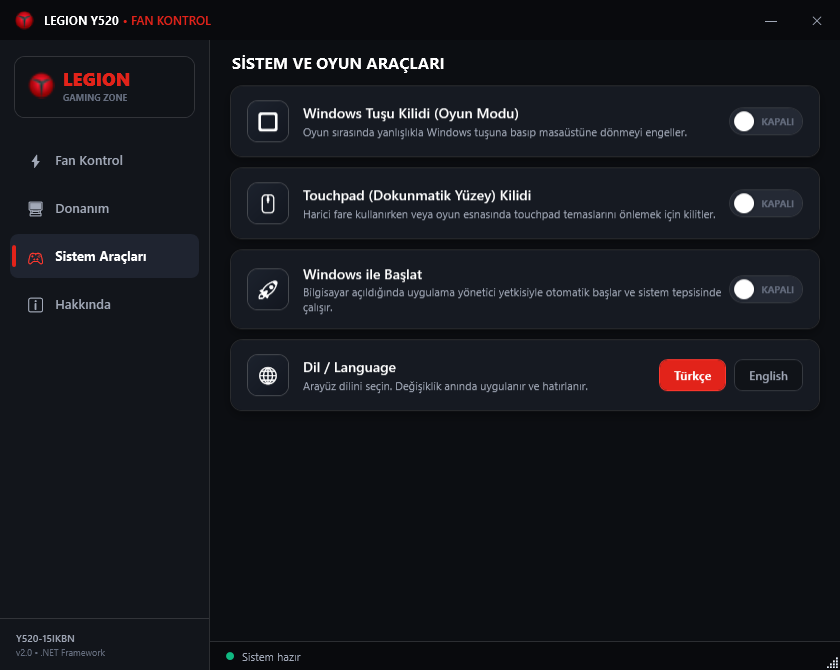
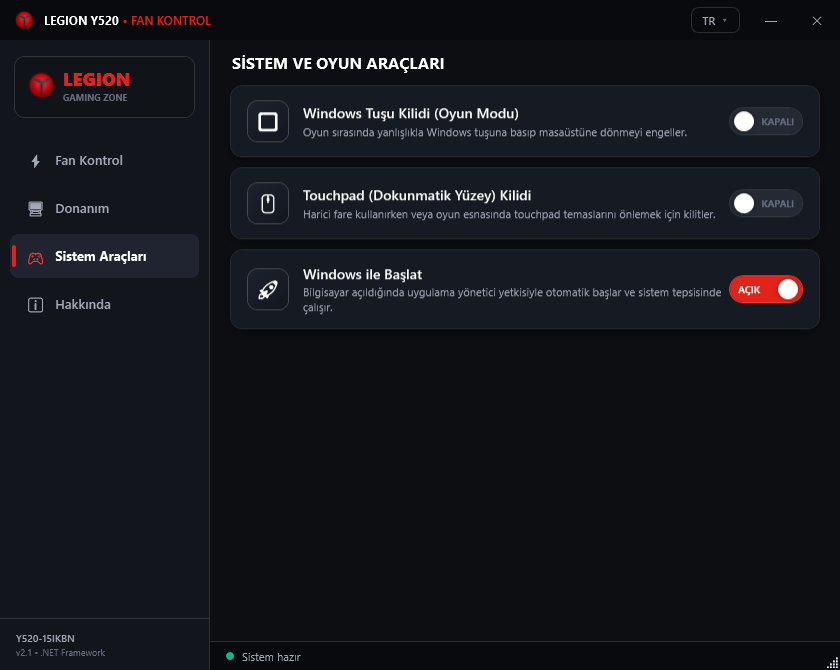
Legion Y520 Fan Kontrol v2.2
- Dil secimi baslik cubuguna tasindi (kucultme dugmesinin yaninda acilir menu)
- Sistem Araclari sayfasindaki eski dil karti kaldirildi
- Ekran goruntuleri yeni arayuzle guncellendi

diff --git a/Program.cs b/Program.cs
@@ -664,11 +664,120 @@ namespace LegionFanControl
 
             var right = new StackPanel { Orientation = Orientation.Horizontal };
             Grid.SetColumn(right, 1);
+            right.Children.Add(BuildLangSelector());
             right.Children.Add(MakeTitleButton("—", false));
             right.Children.Add(MakeTitleButton("✕", true));
             bar.Children.Add(right);
 
             return bar;
+        }
+
+        // Baslik cubugundaki kompakt dil secici (acilir menu)
+        private UIElement BuildLangSelector()
+        {
+            var popup = new Popup
+            {
+                StaysOpen = false,
+                AllowsTransparency = true,
+                Placement = PlacementMode.Bottom
+            };
+
+            var menuPanel = new StackPanel();
+            foreach (var code in Lang.Available)
+            {
+                string lcode = code;
+                bool active = Lang.Current == lcode;
+                var row = new StackPanel { Orientation = Orientation.Horizontal };
+                row.Children.Add(new TextBlock
+                {
+                    Text = active ? "✓" : "",
+                    Foreground = RedGlowBrush,
+                    FontSize = 11,
+                    FontWeight = FontWeights.Bold,
+                    Width = 16,
+                    VerticalAlignment = VerticalAlignment.Center
+                });
+                row.Children.Add(new TextBlock
+                {
+                    Text = lcode == "tr" ? "Türkçe" : "English",
+                    Foreground = active ? TextPrimary : TextSecondary,
+                    FontSize = 12,
+                    FontWeight = active ? FontWeights.SemiBold : FontWeights.Normal,
+                    VerticalAlignment = VerticalAlignment.Center
+                });
+                var item = new Border
+                {
+                    Padding = new Thickness(10, 7, 14, 7),
+                    Background = Brushes.Transparent,
+                    Cursor = Cursors.Hand,
+                    Child = row
+                };
+                item.MouseEnter += (s, e) => item.Background = SelBrush;
+                item.MouseLeave += (s, e) => item.Background = Brushes.Transparent;
+                item.MouseLeftButtonUp += (s, e) =>
+                {
+                    e.Handled = true;
+                    popup.IsOpen = false;
+                    ChangeLanguage(lcode);
+                };
+                menuPanel.Children.Add(item);
+            }
+
+            popup.Child = new Border
+            {
+                Background = SubCardBrush,
+                BorderBrush = PanelEdgeBrush,
+                BorderThickness = new Thickness(1),
+                CornerRadius = new CornerRadius(8),
+                Margin = new Thickness(0, 4, 0, 0),
+                Child = menuPanel
+            };
+
+            var head = new StackPanel { Orientation = Orientation.Horizontal };
+            head.Children.Add(new TextBlock
+            {
+                Text = Lang.Current.ToUpperInvariant(),
+                Foreground = TextSecondary,
+                FontSize = 11,
+                FontWeight = FontWeights.SemiBold,
+                VerticalAlignment = VerticalAlignment.Center
+            });
+            head.Children.Add(new TextBlock
+            {
+                Text = "▾",
+                Foreground = TextMutedBrush,
+                FontSize = 10,
+                Margin = new Thickness(5, 0, 0, 0),
+                VerticalAlignment = VerticalAlignment.Center
+            });
+
+            var btn = new Border
+            {
+                Padding = new Thickness(10, 5, 10, 5),
+                Margin = new Thickness(0, 0, 8, 0),
+                CornerRadius = new CornerRadius(7),
+                Background = Brushes.Transparent,
+                BorderBrush = PanelEdgeBrush,
+                BorderThickness = new Thickness(1),
+                Cursor = Cursors.Hand,
+                VerticalAlignment = VerticalAlignment.Center,
+                Child = head
+            };
+            System.Windows.Shell.WindowChrome.SetIsHitTestVisibleInChrome(btn, true);
+            popup.PlacementTarget = btn;
+            btn.MouseEnter += (s, e) => btn.Background = SelBrush;
+            btn.MouseLeave += (s, e) => btn.Background = Brushes.Transparent;
+            btn.MouseLeftButtonDown += (s, e) => { e.Handled = true; };
+            btn.MouseLeftButtonUp += (s, e) =>
+            {
+                e.Handled = true;
+                popup.IsOpen = !popup.IsOpen;
+            };
+
+            var host = new Grid();
+            host.Children.Add(btn);
+            host.Children.Add(popup);
+            return host;
         }
 
         private Border MakeTitleButton(string glyph, bool isClose)
@@ -1723,8 +1832,6 @@ namespace LegionFanControl
                 "🚀", _startupSwitch));
             _startupSwitch.SetCheckedQuietly(IsStartupEnabled());
 
-            sp.Children.Add(BuildLanguageCard());
-
             page.Children.Add(sp);
             return page;
         }
@@ -1801,99 +1908,6 @@ namespace LegionFanControl
         }
 
         // ---------------- Dil Secimi ----------------
-        private Border BuildLanguageCard()
-        {
-            var grid = new Grid();
-            grid.ColumnDefinitions.Add(new ColumnDefinition { Width = GridLength.Auto });
-            grid.ColumnDefinitions.Add(new ColumnDefinition { Width = new GridLength(1, GridUnitType.Star) });
-            grid.ColumnDefinitions.Add(new ColumnDefinition { Width = GridLength.Auto });
-
-            var iconBox = new Border
-            {
-                Width = 42, Height = 42,
-                CornerRadius = new CornerRadius(10),
-                Background = new LinearGradientBrush(
-                    Color.FromRgb(0x1C, 0x22, 0x2D),
-                    Color.FromRgb(0x12, 0x16, 0x1F),
-                    new Point(0, 0), new Point(1, 1)),
-                BorderBrush = new SolidColorBrush(Color.FromArgb(0x35, 0xFF, 0xFF, 0xFF)),
-                BorderThickness = new Thickness(1),
-                Margin = new Thickness(0, 0, 14, 0)
-            };
-            iconBox.Child = new TextBlock
-            {
-                Text = "🌐",
-                FontSize = 18,
-                Foreground = Brushes.White,
-                FontFamily = new FontFamily("Segoe UI Emoji, Segoe UI Symbol, Arial"),
-                HorizontalAlignment = HorizontalAlignment.Center,
-                VerticalAlignment = VerticalAlignment.Center
-            };
-            grid.Children.Add(iconBox);
-
-            var sp = new StackPanel { VerticalAlignment = VerticalAlignment.Center };
-            sp.Children.Add(new TextBlock
-            {
-                Text = Lang.T("lang.title"),
-                Foreground = TextPrimary,
-                FontSize = 14,
-                FontWeight = FontWeights.SemiBold
-            });
-            sp.Children.Add(new TextBlock
-            {
-                Text = Lang.T("lang.desc"),
-                Foreground = TextSecondary,
-                FontSize = 11,
-                TextWrapping = TextWrapping.Wrap,
-                Margin = new Thickness(0, 2, 0, 0)
-            });
-            Grid.SetColumn(sp, 1);
-            grid.Children.Add(sp);
-
-            var btnPanel = new StackPanel
-            {
-                Orientation = Orientation.Horizontal,
-                VerticalAlignment = VerticalAlignment.Center
-            };
-            btnPanel.Children.Add(MakeLangButton("tr", "Türkçe"));
-            btnPanel.Children.Add(MakeLangButton("en", "English"));
-            Grid.SetColumn(btnPanel, 2);
-            grid.Children.Add(btnPanel);
-
-            return MakeCard(grid, padding: new Thickness(16, 14, 16, 14));
-        }
-
-        private Border MakeLangButton(string lang, string label)
-        {
-            bool active = Lang.Current == lang;
-            var txt = new TextBlock
-            {
-                Text = label,
-                Foreground = active ? Brushes.White : TextSecondary,
-                FontSize = 12,
-                FontWeight = active ? FontWeights.Bold : FontWeights.Medium,
-                HorizontalAlignment = HorizontalAlignment.Center,
-                VerticalAlignment = VerticalAlignment.Center
-            };
-            var btn = new Border
-            {
-                Padding = new Thickness(14, 7, 14, 7),
-                Margin = new Thickness(lang == "tr" ? 0 : 8, 0, 0, 0),
-                CornerRadius = new CornerRadius(8),
-                Background = active ? RedBrush : SubCardBrush,
-                BorderBrush = active ? RedGlowBrush : PanelEdgeBrush,
-                BorderThickness = new Thickness(1),
-                Cursor = Cursors.Hand,
-                Child = txt
-            };
-            btn.MouseLeftButtonUp += (s, e) =>
-            {
-                e.Handled = true;
-                ChangeLanguage(lang);
-            };
-            return btn;
-        }
-
         private void ChangeLanguage(string lang)
         {
             if (Lang.Current == lang) return;
@@ -1926,7 +1940,7 @@ namespace LegionFanControl
 
         // ---------------- 4. Sayfa: HAKKINDA ----------------
         private const string GitHubUrl = "https://github.com/fatih5228/LegionFanControl";
-        public const string CurrentVersion = "2.1";
+        public const string CurrentVersion = "2.2";
         private const string GitHubLatestReleasePage = GitHubUrl + "/releases/latest";
         private const string GitHubApiLatestRelease = "https://api.github.com/repos/fatih5228/LegionFanControl/releases/latest";
 

diff --git a/Lang.cs b/Lang.cs
@@ -98,11 +98,8 @@ namespace LegionFanControl
             { "startup.off",        "Windows ile başlatma kapatıldı" },
             { "startup.fail",       "Başlangıç ayarı değiştirilemedi: {0}" },
 
-            { "lang.title",         "Dil / Language" },
-            { "lang.desc",          "Arayüz dilini seçin. Değişiklik anında uygulanır ve hatırlanır." },
-
             { "about.title",        "HAKKINDA" },
-            { "about.version",      "Sürüm 2.1 • .NET Framework (WPF)" },
+            { "about.version",      "Sürüm 2.2 • .NET Framework (WPF)" },
             { "about.desc",         "Lenovo Legion Y520 için Extreme Cooling, otomatik fan kontrolü ve oyun araçları." },
             { "about.dev",          "GELİŞTİRİCİ" },
             { "about.gh",           "KAYNAK KOD & GÜNCELLEMELER" },
@@ -193,11 +190,8 @@ namespace LegionFanControl
             { "startup.off",        "Start with Windows disabled" },
             { "startup.fail",       "Could not change startup setting: {0}" },
 
-            { "lang.title",         "Language / Dil" },
-            { "lang.desc",          "Select the interface language. The change applies instantly and is remembered." },
-
             { "about.title",        "ABOUT" },
-            { "about.version",      "Version 2.1 • .NET Framework (WPF)" },
+            { "about.version",      "Version 2.2 • .NET Framework (WPF)" },
             { "about.desc",         "Extreme Cooling, automatic fan control and gaming tools for Lenovo Legion Y520." },
             { "about.dev",          "DEVELOPER" },
             { "about.gh",           "SOURCE CODE & UPDATES" },

diff --git a/README.md b/README.md
@@ -28,8 +28,8 @@ Extreme Cooling, temperature-threshold auto fan mode, hardware monitoring and ga
 
 [Releases](https://github.com/fatih5228/LegionFanControl/releases) sayfasından:
 
-- **LegionFanControl-Setup-v2.1.exe** — kurulum sihirbazı (önerilen) / installer (recommended)
-- **LegionFanControl-v2.1.zip** — kurulumsuz taşınabilir sürüm / portable version
+- **LegionFanControl-Setup-v2.2.exe** — kurulum sihirbazı (önerilen) / installer (recommended)
+- **LegionFanControl-v2.2.zip** — kurulumsuz taşınabilir sürüm / portable version
 
 > Uygulama WMI ve donanım sensörlerine erişmek için yönetici yetkisi ister.
 > The app requires administrator rights (WMI + hardware sensors).
